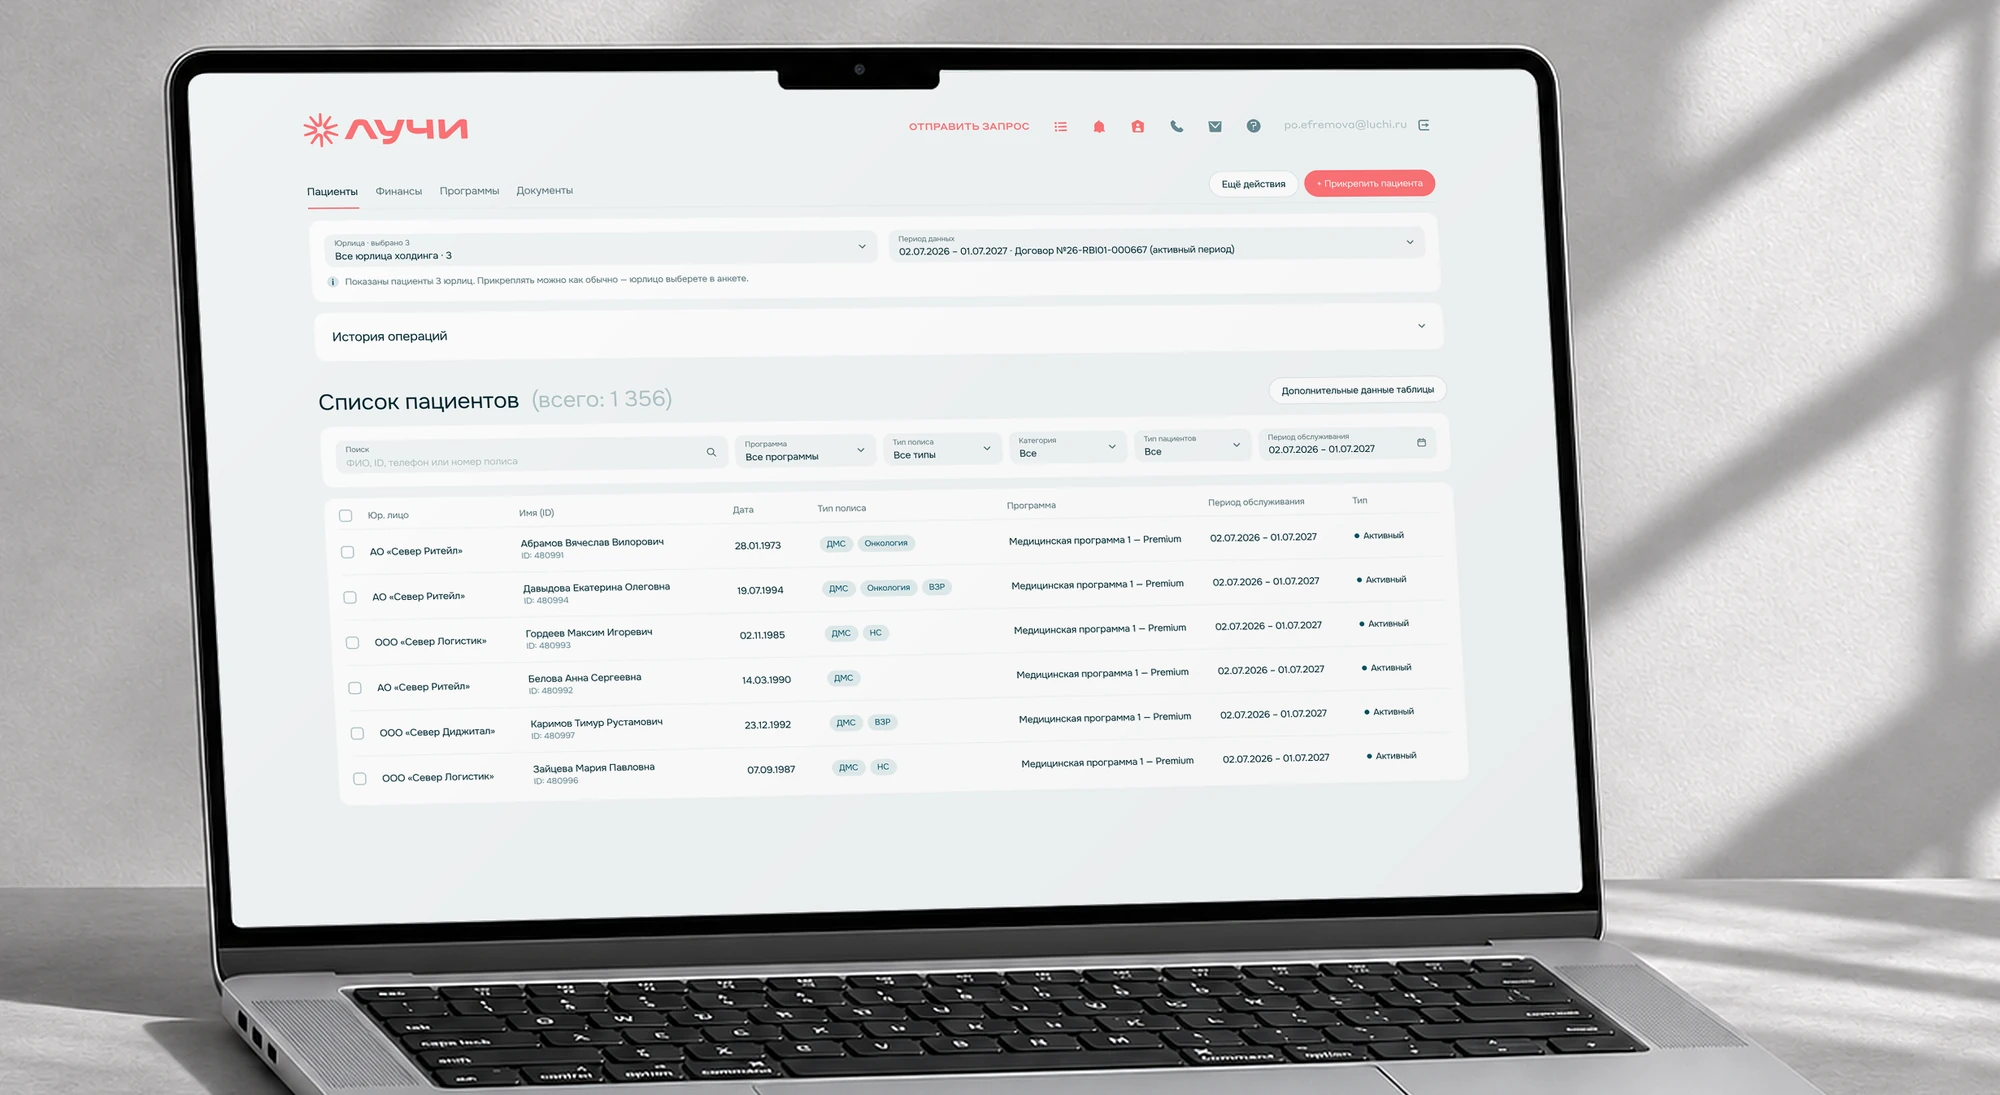
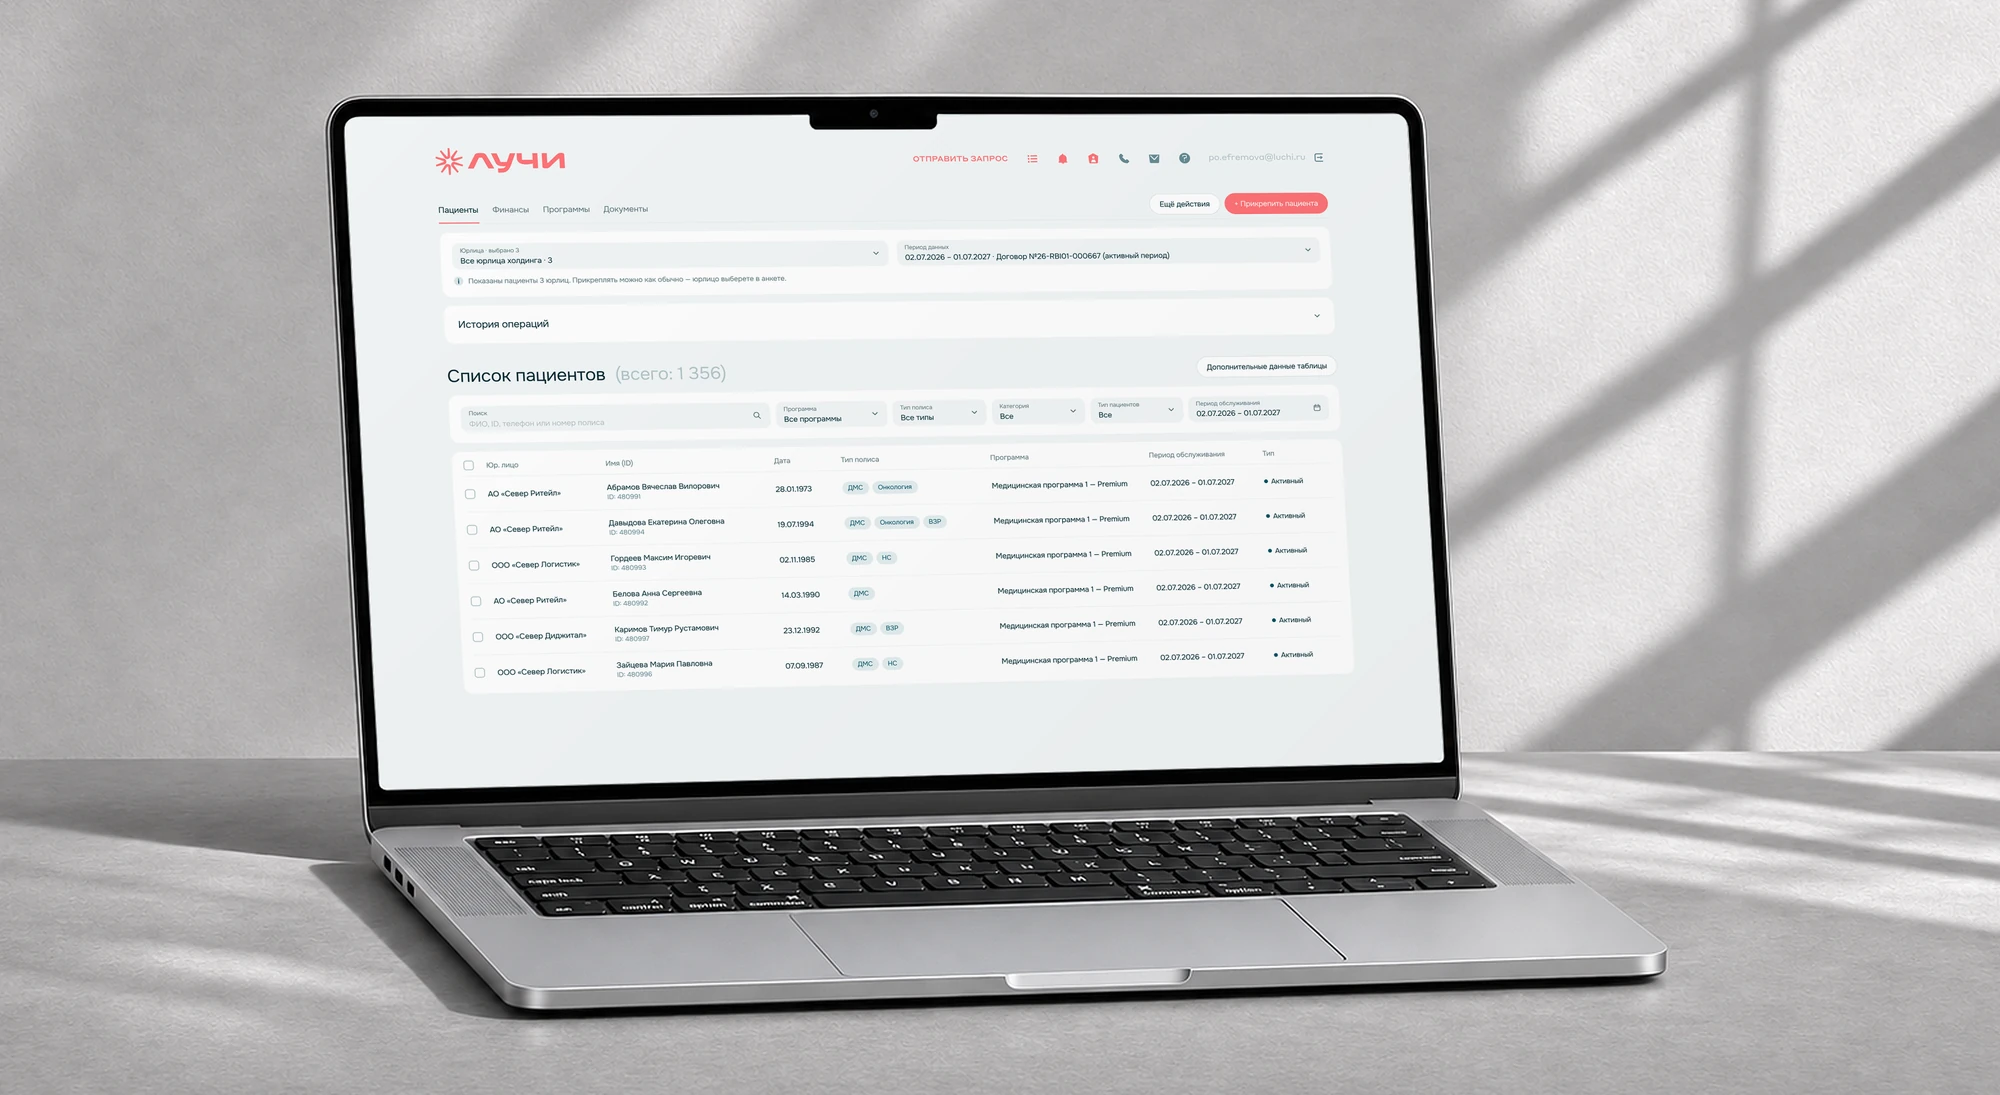
HR-кабинет: обложка свободнее — ноутбук целиком, с воздухом сверху и снизу
Claude-Session: https://claude.ai/code/session_01Uts8gxYo8bV3zY6BfbstQZ

diff --git a/index.html b/index.html
@@ -58,7 +58,7 @@
       <div class="cases-track" id="casesTrack">
     <a class="case card" href="luchi-case.html">
       <div class="media lu-media lu-hr"><div class="m-tags" aria-hidden="true"><span>Web</span><span>B2B</span></div>
-        <img src="assets/img/luchi/cover/hr-laptop-card.webp?v=2" alt="HR‑кабинет Лучей на ноутбуке: список пациентов с фильтрами" loading="lazy" decoding="async">
+        <img src="assets/img/luchi/cover/hr-laptop-card.webp?v=3" alt="HR‑кабинет Лучей на ноутбуке: список пациентов с фильтрами" loading="lazy" decoding="async">
       </div>
       <div class="body">
         <div class="name"><img src="assets/img/luchi/app-icon.png" alt=""><h2>Лучи</h2></div><span class="short">HR‑кабинет для&nbsp;B2B‑страхования</span>

diff --git a/luchi-case.html b/luchi-case.html
@@ -30,7 +30,7 @@
       <div><dt>Формат</dt><dd>In-house, <br>продуктовая команда</dd></div>
       <div><dt>Годы</dt><dd>2025–2026</dd></div>
     </dl>
-    <figure class="shot lu-shot lu-hr-shot"><img src="assets/img/luchi/cover/hr-laptop-hero.webp?v=2" alt="HR‑кабинет Лучей на ноутбуке: список пациентов с фильтрами" decoding="async"></figure>
+    <figure class="shot lu-shot lu-hr-shot"><img src="assets/img/luchi/cover/hr-laptop-hero.webp?v=3" alt="HR‑кабинет Лучей на ноутбуке: список пациентов с фильтрами" decoding="async"></figure>
   </header>
 
   <!-- Кратко -->
